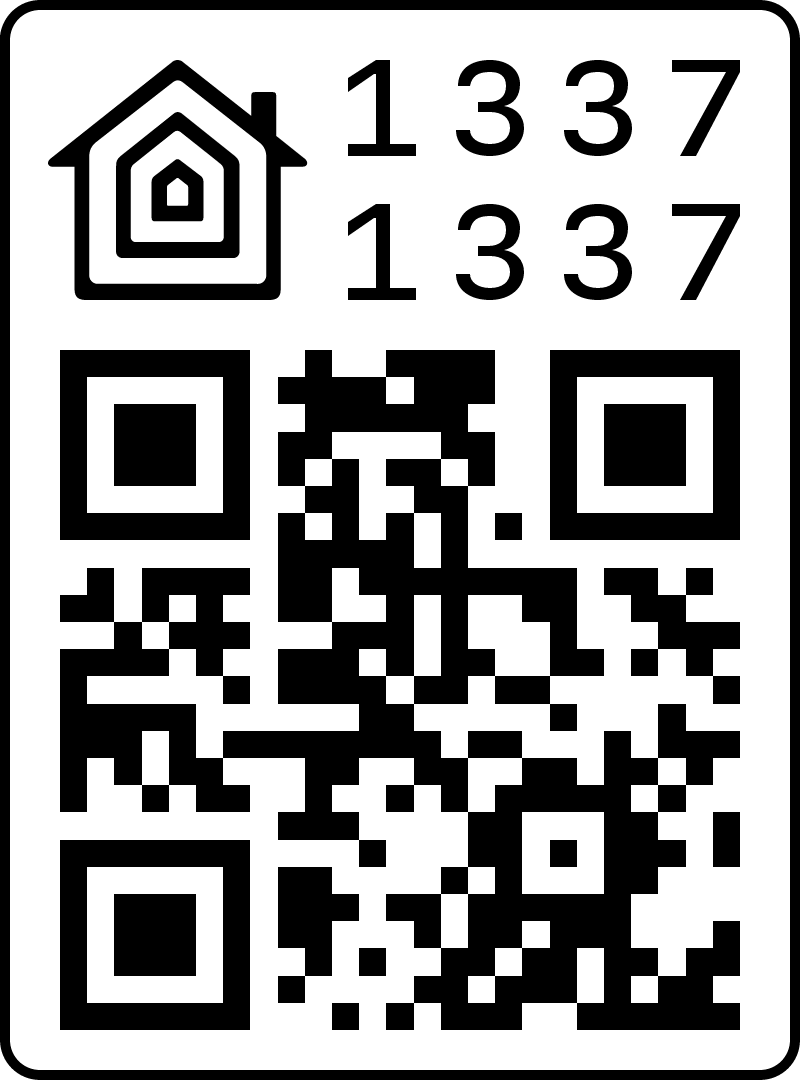
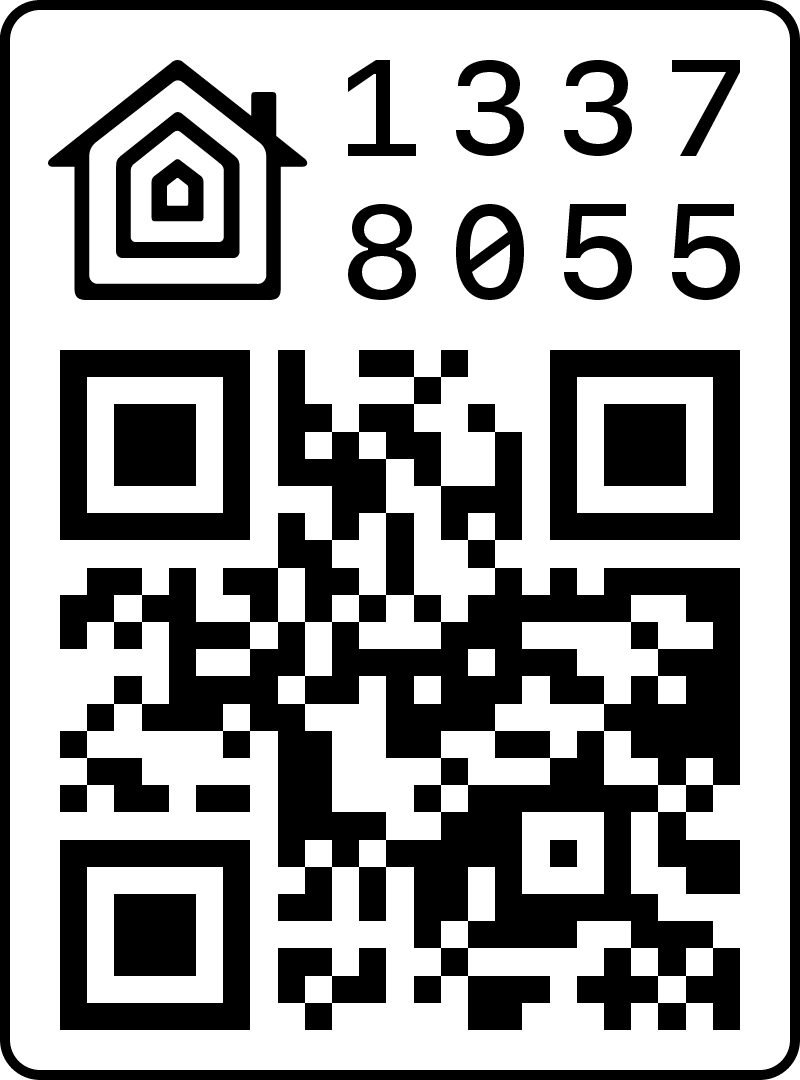
Changed pairing code and setup id

diff --git a/constants.js b/constants.js
@@ -6,8 +6,8 @@ module.exports = {
   DEFAULT_BRIDGE_IDENTIFIER:    'HomeKitty',
   DEFAULT_USERNAME:             'FA:CE:13:37:CA:75',
   DEFAULT_PORT:                 31337,
-  DEFAULT_SETUP_ID:             '1337',
-  DEFAULT_PIN_CODE:             '133-71-337', // XXX: needs this formatting
+  DEFAULT_SETUP_ID:             'CATS',
+  DEFAULT_PIN_CODE:             '133-78-055', // XXX: needs this formatting
   // settings keys
   SETTINGS_BRIDGE_IDENTIFIER:   'Bridge.Identifier',
   SETTINGS_BRIDGE_USERNAME:     'Bridge.Username',
